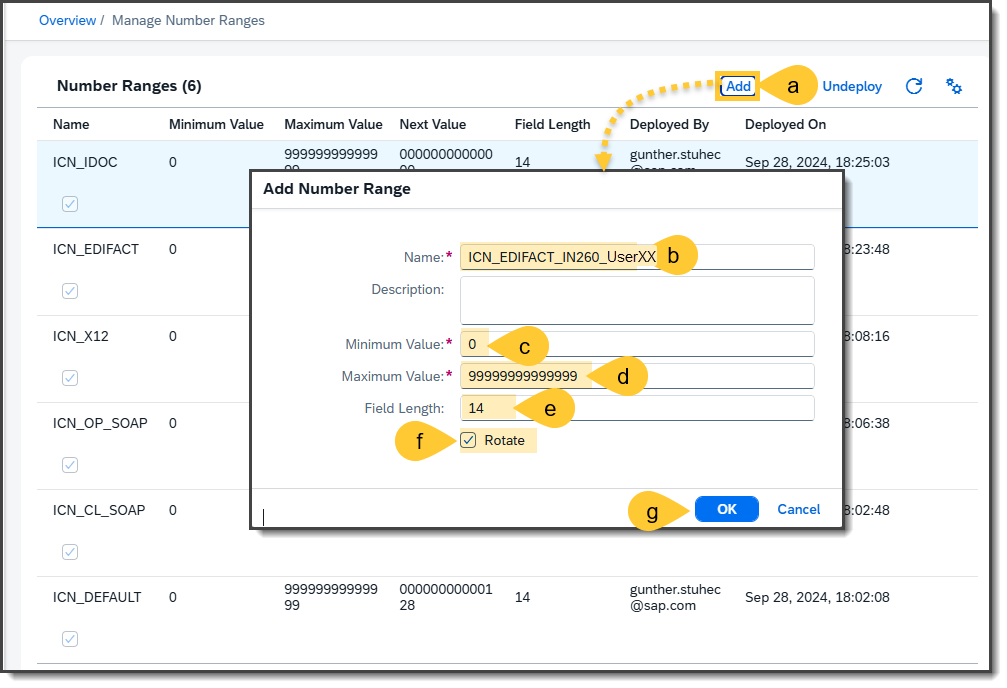
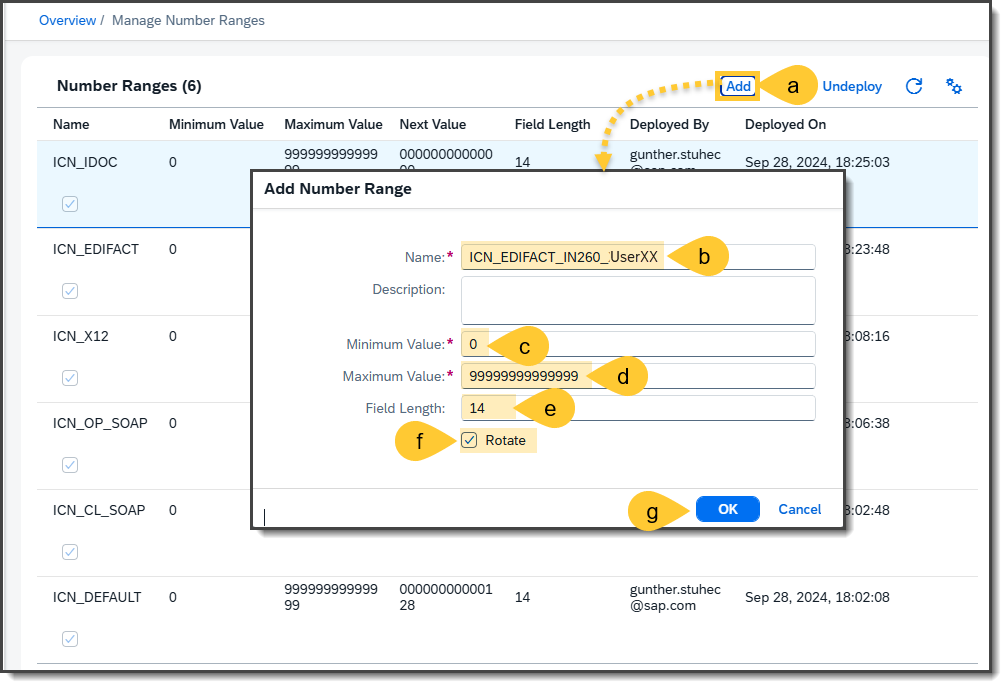
Correction in  figure 02

diff --git a/exercises/Exercise_01.md b/exercises/Exercise_01.md
@@ -1,16 +1,16 @@
 # Exercise 1: Create the necessary Trading Partner Profile
 In this exercise, you will learn how to set up a complete Trading Partner Profile for EDI processing within a B2B integration scenario. The steps guide you through:
-- Creating a unique Interchange Control Number (ICN) using number ranges.
 - Setting up a Trading Partner Profile, including company details and identifiers for UN/EDIFACT and IDoc payloads.
 - Configuring Identifier Groups to manage multiple sender identifiers.
 - Defining Trading Partner System Details, including type systems and communication channels.
+- Creating a unique Interchange Control Number (ICN) using number ranges.
 - Creating Trading Partner Parameters to support dynamic data injection into mappings and headers.
 - Assigning Number Ranges to ensure proper tracking of EDI transactions.
 
 By completing this exercise, you will gain hands-on experience in configuring the foundational elements required for secure and structured electronic data interchange between business partners.
 
 ## Step 1 - Go to the Number Range objects
-A unique interchange control number should be included when sending documents for EDI processing. To add an interchange number, use Number Ranges. Each IN260 participant should create their own interchange number. For this purpose:
+A unique interchange control number should be included into the UN/EDIFACT interchanges when sending EDI documents to the trading parter. To add an interchange number, use Number Ranges. Each IN260 participant should create their own interchange number. For this purpose:
 - (a) Click **Integrations and APIs** inside the Monitor section.
 - (b) Select the **Number Ranges** card.
 
